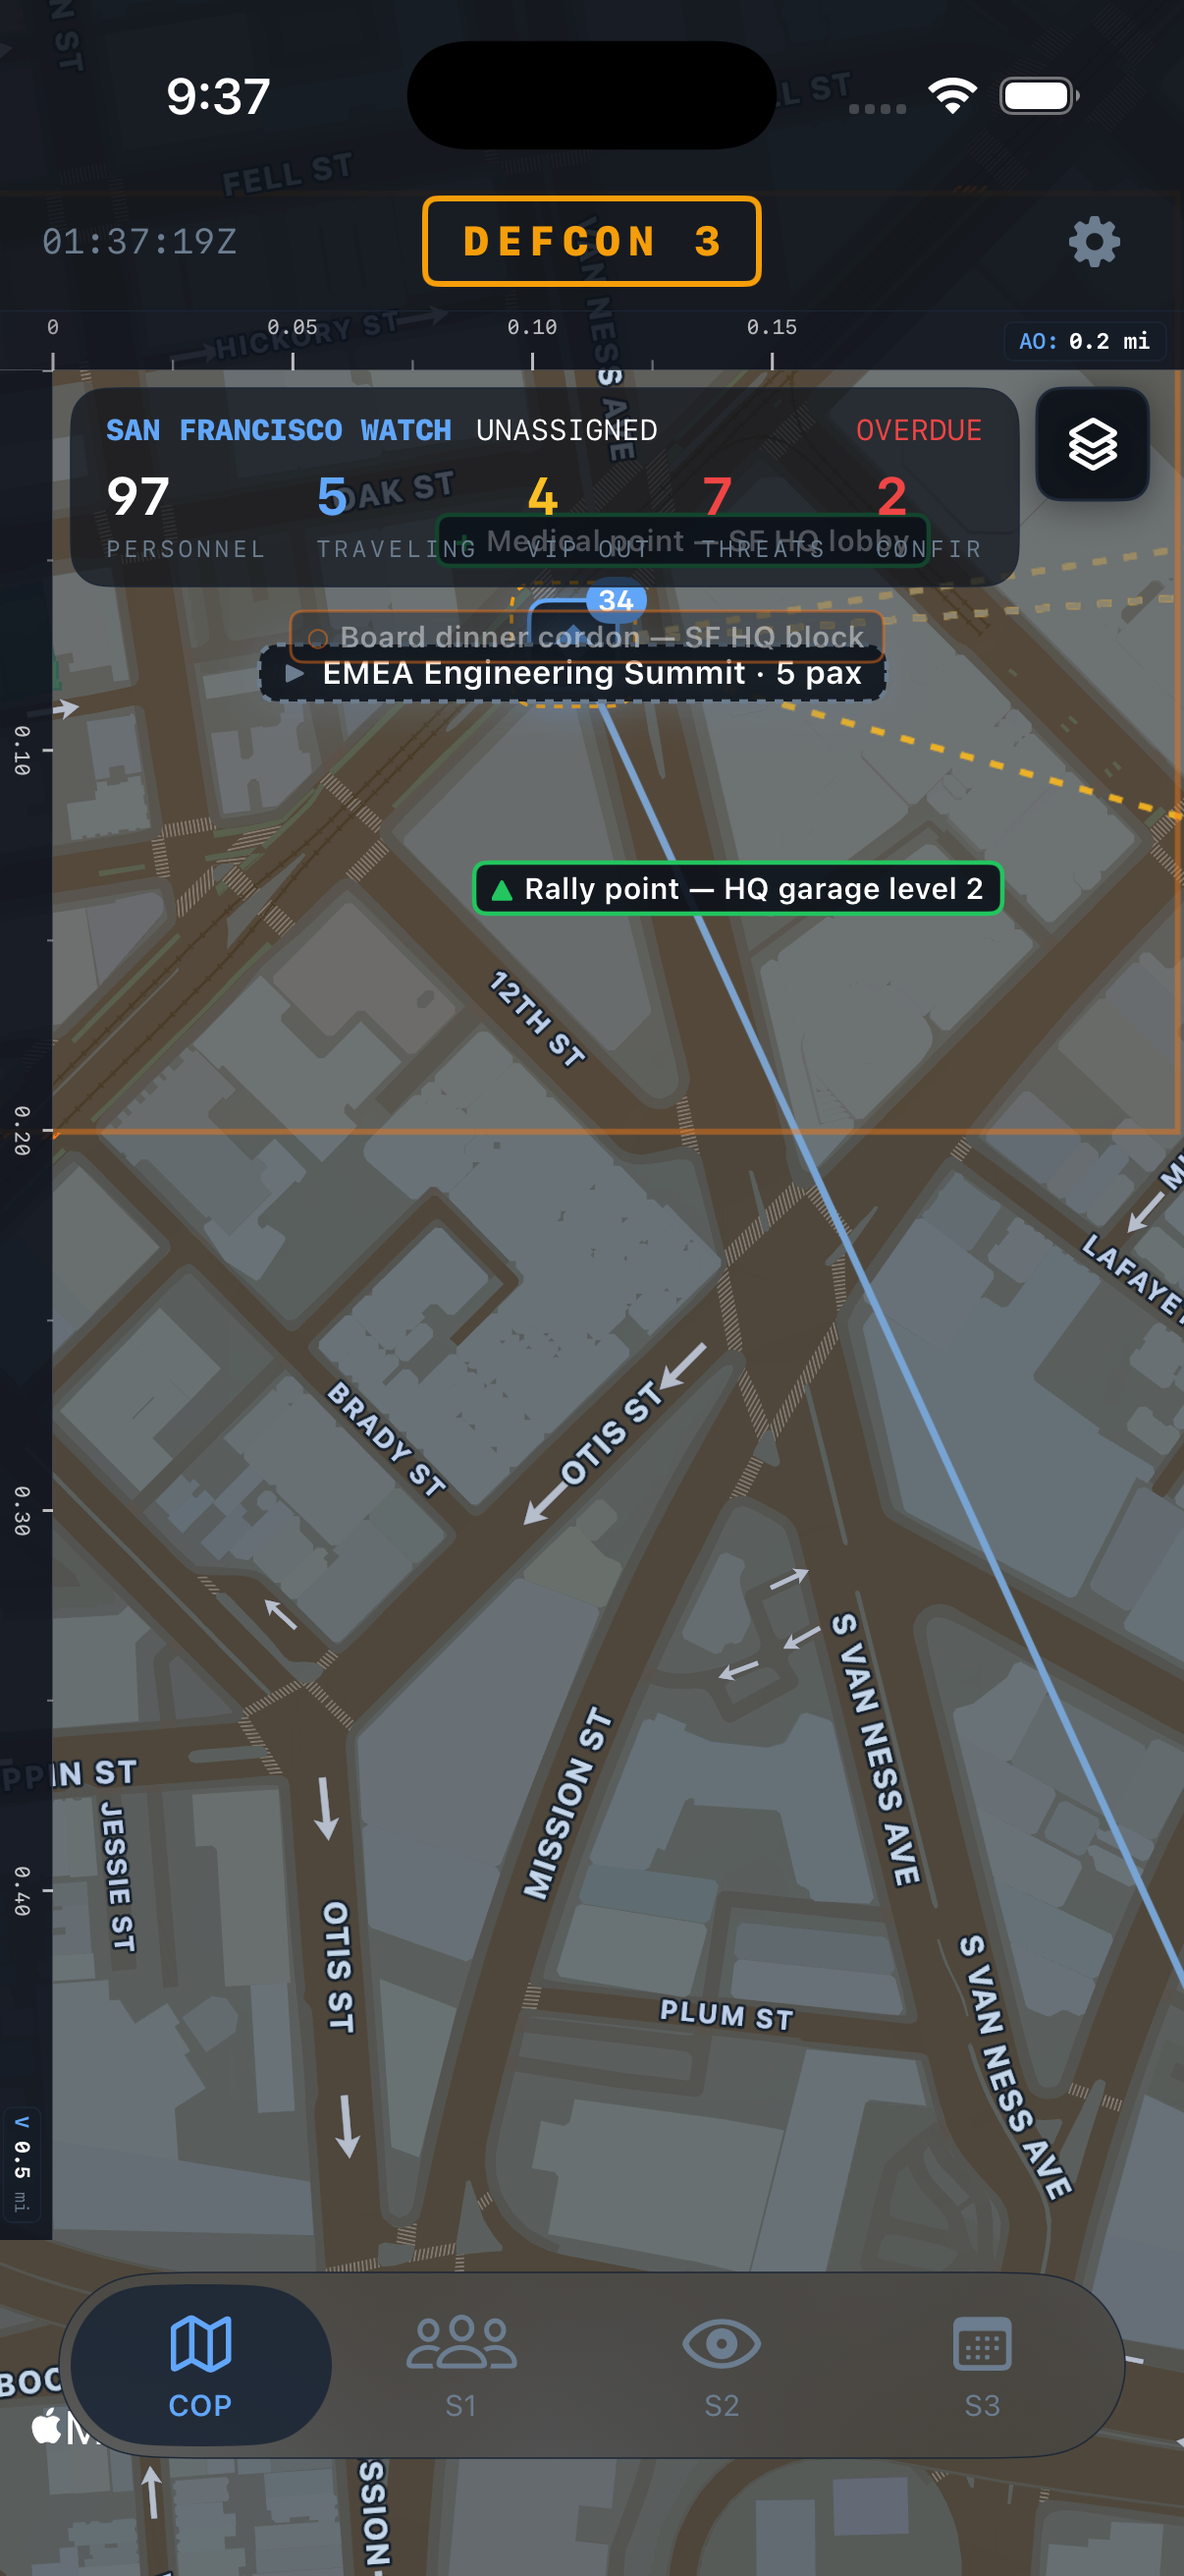
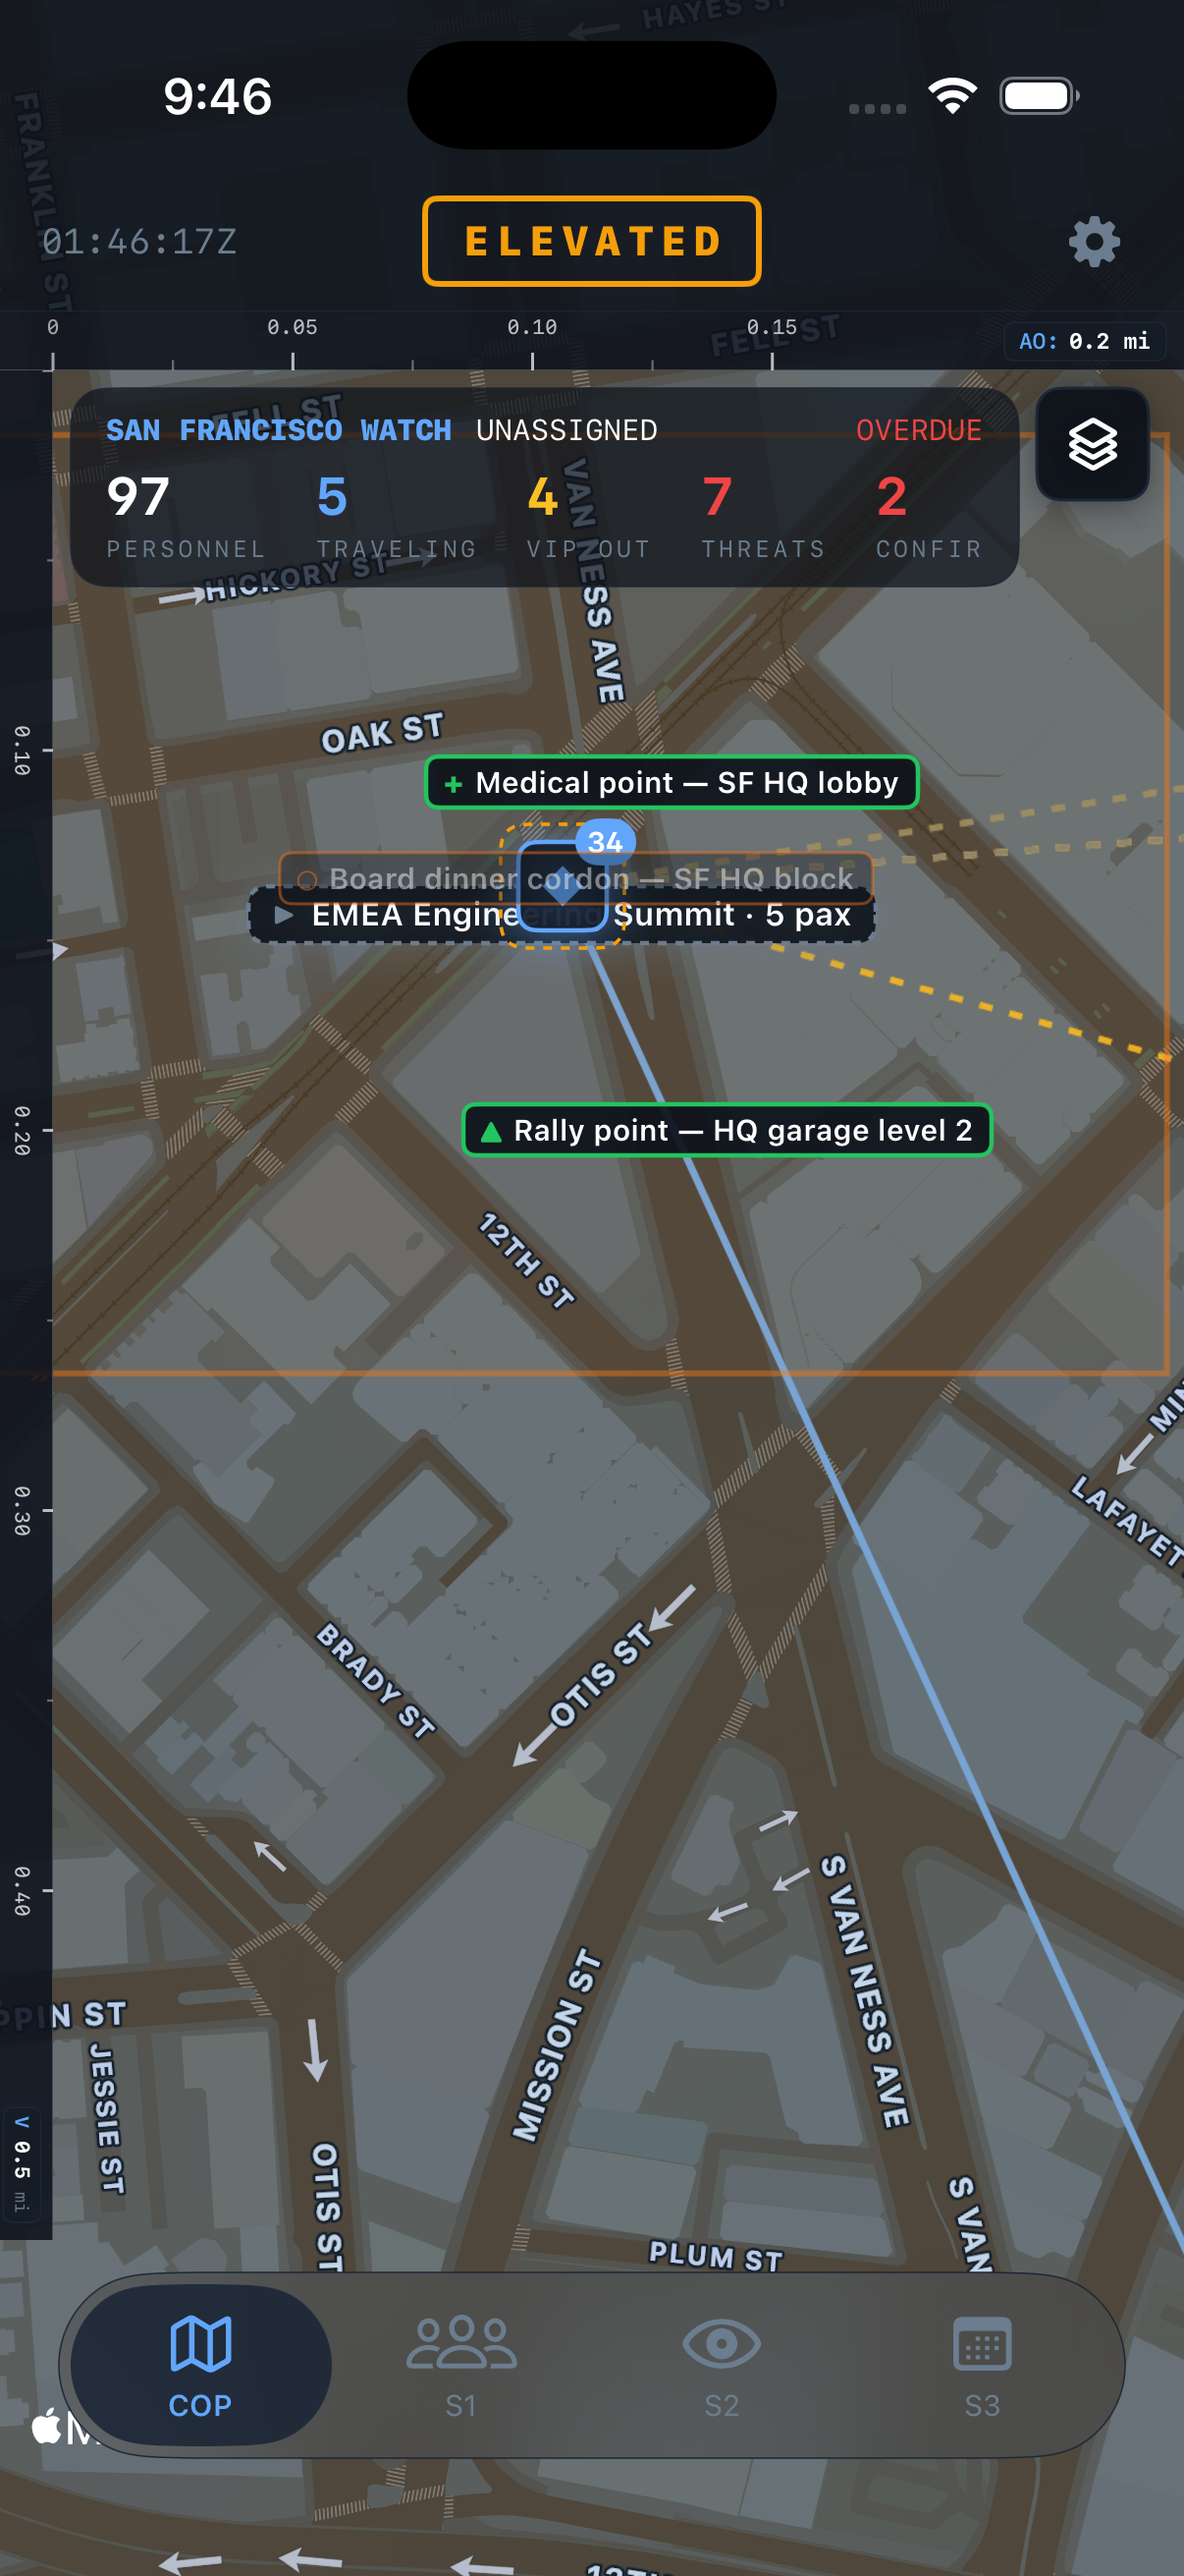
fix: remove DEFCON from commercial/corporate profile and landing page

diff --git a/coptoc/web/src/App.tsx b/coptoc/web/src/App.tsx
@@ -292,11 +292,16 @@ export default function App() {
           {role === 'battle_captain' && <select className="role profile" value={snap?.profile ?? 'military'} onChange={e => switchProfile(e.target.value as 'military' | 'corporate')} title="Deployment profile — reloads the sample data" disabled={!!busy}>
             <option value="military">Military</option><option value="corporate">Corporate</option>
           </select>}
-          <button className={`posture-chip ${s?.posture ?? ''}`} onClick={() => { setShowDefcon(v => !v); setShowSettings(false) }} title="The wall's posture is the worst site's effective posture. Click for the levels.">DEFCON {s?.defcon ?? '—'}</button>
+          {snap?.profile === 'corporate' ? (
+            <button className={`posture-chip ${s?.posture ?? ''}`} onClick={() => { setShowDefcon(v => !v); setShowSettings(false) }} title="The wall's posture is the worst site's effective posture. Click for the levels.">{s?.posture?.toUpperCase() ?? 'NORMAL'}</button>
+          ) : (
+            <button className={`posture-chip ${s?.posture ?? ''}`} onClick={() => { setShowDefcon(v => !v); setShowSettings(false) }} title="The wall's posture is the worst site's effective posture. Click for the levels.">DEFCON {s?.defcon ?? '—'}</button>
+          )}
           {showDefcon && s && <div className="defcon" onClick={e => e.stopPropagation()}>
-            <div className="dform-head">DEFCON <span className="dim">the wall reads the worst site · set a site's level from its card</span></div>
+            <div className="dform-head">{snap?.profile === 'corporate' ? 'POSTURE' : 'DEFCON'} <span className="dim">the wall reads the worst site · set a site's level from its card</span></div>
             {[...(s.defcon_levels ?? [])].sort((x, y) => y.defcon - x.defcon).map(l => <div key={l.defcon} className={`dlevel ${l.posture} ${l.defcon === s.defcon ? 'now' : ''}`}>
-              <span className="dnum">{l.defcon}</span><span className="dname">{l.posture.toUpperCase()}</span><span className="dmean">{l.meaning}</span><span className="dsites dim">{l.sites ? `${l.sites} site${l.sites === 1 ? '' : 's'}` : ''}</span>
+              {snap?.profile !== 'corporate' && <span className="dnum">{l.defcon}</span>}
+              <span className="dname">{l.posture.toUpperCase()}</span><span className="dmean">{l.meaning}</span><span className="dsites dim">{l.sites ? `${l.sites} site${l.sites === 1 ? '' : 's'}` : ''}</span>
             </div>)}
           </div>}
         </div>

diff --git a/coptoc/ios/Sources/ContentView.swift b/coptoc/ios/Sources/ContentView.swift
@@ -122,19 +122,22 @@ struct PostureTopBar: View {
     var body: some View {
         let s = store.snapshot?.summary
         let posture = s?.posture ?? "normal"
+        let isCorporate = (store.snapshot?.profile ?? "military") == "corporate"
         ZStack {
             Menu {
                 ForEach((s?.defconLevels ?? []).sorted { $0.defcon > $1.defcon }) { l in
-                    Button { } label: { Label("DEFCON \(l.defcon) · \(l.posture.uppercased())" + (l.defcon == s?.defcon ? "  ← now" : "") + (l.sites > 0 ? "  (\(l.sites))" : ""), systemImage: l.defcon == s?.defcon ? "checkmark.circle.fill" : "circle") }
+                    let title = isCorporate ? l.posture.uppercased() : "DEFCON \(l.defcon) · \(l.posture.uppercased())"
+                    Button { } label: { Label(title + (l.defcon == s?.defcon ? "  ← now" : "") + (l.sites > 0 ? "  (\(l.sites))" : ""), systemImage: l.defcon == s?.defcon ? "checkmark.circle.fill" : "circle") }
                 }
                 Divider()
                 Text("The wall reads the worst site. Set a site's level from its card.")
             } label: {
+                let badgeText = isCorporate ? posture.uppercased() : "DEFCON \(s?.defcon.map(String.init) ?? "—")"
                 if store.postureHeader {
-                    Text("DEFCON \(s?.defcon.map(String.init) ?? "—")").font(.system(size: 14, weight: .heavy, design: .monospaced)).tracking(2.5).foregroundStyle(Theme.posture(posture))
+                    Text(badgeText).font(.system(size: 14, weight: .heavy, design: .monospaced)).tracking(2.5).foregroundStyle(Theme.posture(posture))
                         .padding(.horizontal, 12).padding(.vertical, 6).overlay(RoundedRectangle(cornerRadius: 4).stroke(Theme.posture(posture), lineWidth: 2))
                 } else {
-                    Chip(text: "DEFCON \(s?.defcon.map(String.init) ?? "—")", color: Theme.posture(posture))
+                    Chip(text: badgeText, color: Theme.posture(posture))
                 }
             }
             HStack(spacing: 10) {

diff --git a/coptoc/web/src/CommandBar.tsx b/coptoc/web/src/CommandBar.tsx
@@ -23,7 +23,10 @@ function score(q: string[], hay: string): number {
 export function buildCommands(snap: Snapshot, go: { select: (s: Selection) => void; open: (panel: 'S1' | 'S2' | 'S3' | 'S4' | 'S6' | 'brief' | 'settings' | 'plan' | 'intsum') => void }): Command[] {
   const out: Command[] = []
   for (const p of snap.people) out.push({ id: `p:${p.id}`, kind: 'person', title: p.name, sub: `${p.rank ? p.rank + ' · ' : ''}${p.role} · ${p.team_name}${p.status === 'traveling' ? ' · traveling' : ''}`, run: () => { go.select({ type: 'person', id: p.id }); go.open('S1') } })
-  for (const l of snap.locations) out.push({ id: `l:${l.id}`, kind: 'location', title: l.name, sub: `${l.city}, ${l.country} · ${l.present}/${l.assigned} present · DEFCON ${l.defcon ?? ''}`.replace(' · DEFCON ', l.defcon ? ' · DEFCON ' : ''), run: () => { go.select({ type: 'location', id: l.id }); go.open('S1') } })
+  for (const l of snap.locations) {
+    const postText = snap.profile === 'corporate' ? (l.effective_posture ?? l.posture).toUpperCase() : (l.defcon ? `DEFCON ${l.defcon}` : '')
+    out.push({ id: `l:${l.id}`, kind: 'location', title: l.name, sub: `${l.city}, ${l.country} · ${l.present}/${l.assigned} present${postText ? ' · ' + postText : ''}`, run: () => { go.select({ type: 'location', id: l.id }); go.open('S1') } })
+  }
   for (const e of snap.events) out.push({ id: `e:${e.id}`, kind: 'event', title: e.name, sub: `${e.venue_name} · ${e.status === 'active' ? 'in progress' : `in ${e.days_until} d`}`, run: () => { go.select({ type: 'event', id: e.id }); go.open('S3') } })
   for (const t of snap.threats) out.push({ id: `t:${t.id}`, kind: 'threat', title: t.title, sub: `${t.severity} · ${t.source}`, run: () => { go.select({ type: 'threat', id: t.id }); go.open('S2') } })
   for (const t of snap.taskings?.items ?? []) if (t.open) out.push({ id: `k:${t.id}`, kind: 'tasking', title: t.title, sub: `${t.from_section} → ${t.to_section} · ${t.status}${t.overdue ? ' · LATE' : ''}`, run: () => go.open(t.to_section) })

diff --git a/landing/index.html b/landing/index.html
@@ -1082,7 +1082,7 @@
               <div class="mobile-grid">
                 <div class="mobile-card active" data-slide-idx="0" style="--card-accent: var(--blue);" onclick="setMobileSlide(0); startMobileSlideRotation();">
                   <div class="mobile-card-title"><span style="color:var(--blue);">🗺</span> COP Tactical Map</div>
-                  <div class="mobile-card-desc">Live DEFCON 3 escalation, Bay Area geofences, facility clusters, and real-time live asset tracking.</div>
+                  <div class="mobile-card-desc">Live posture escalation, Bay Area geofences, facility clusters, and real-time live asset tracking.</div>
                 </div>
                 <div class="mobile-card" data-slide-idx="1" style="--card-accent: #38bdf8;" onclick="setMobileSlide(1); startMobileSlideRotation();">
                   <div class="mobile-card-title"><span style="color:#38bdf8;">👥</span> S1 Personnel Roster</div>

diff --git a/coptoc/api/coptoc/service.py b/coptoc/api/coptoc/service.py
@@ -36,6 +36,13 @@ DEFCON_MEANING = {  # the US military definitions, as the example (the author's 
     "high":     "DEFCON 2 — Next step to nuclear war. Armed forces ready to deploy and engage in less than 6 hours. [FAST PACE]",
     "critical": "DEFCON 1 — Nuclear war is imminent or has already begun. Maximum readiness. [COCKED PISTOL]",
 }
+POSTURE_MEANING_CORPORATE = {
+    "normal":   "Normal — Lowest state of alert. Standard facility access and routine monitoring.",
+    "guarded":  "Guarded — Increased security watch and strengthened access controls.",
+    "elevated": "Elevated — Heightened threat or regional disruption. Active travel and facility advisories.",
+    "high":     "High — Severe threat to facilities or personnel. Incident response teams activated.",
+    "critical": "Critical — Major emergency or security incident in progress. Maximum response posture.",
+}
 # Decision 3: only a *confirmed* link changes posture. Severity → posture it forces.
 SEVERITY_TO_POSTURE = {"low": "normal", "moderate": "elevated", "elevated": "critical", "critical": "critical"}
 # Decision 2: a check-in this recent overrides the derived position.
@@ -491,7 +498,7 @@ async def build_snapshot(session: AsyncSession, include_restricted: bool = False
         "unaccounted": sum(i["counts"]["unaccounted"] + i["counts"]["unreachable"] for i in incidents_out if i["status"] == "open"),
         "upcoming_events": len(events_out),
         "posture": POSTURES[worst_loc], "defcon": 5 - worst_loc,
-        "defcon_levels": [{"defcon": DEFCON[p], "posture": p, "meaning": DEFCON_MEANING[p], "sites": sum(1 for l in locations_out if l["effective_posture"] == p)} for p in POSTURES],
+        "defcon_levels": [{"defcon": DEFCON[p], "posture": p, "meaning": (POSTURE_MEANING_CORPORATE[p] if prof == "corporate" else DEFCON_MEANING[p]), "sites": sum(1 for l in locations_out if l["effective_posture"] == p)} for p in POSTURES],
     }
     summary["s4_status"], summary["s6_status"] = s4["status"], s6["status"]
     _tk = taskings_summary(taskings, now); summary["taskings_open"], summary["taskings_overdue"] = _tk["open"], _tk["overdue"]
